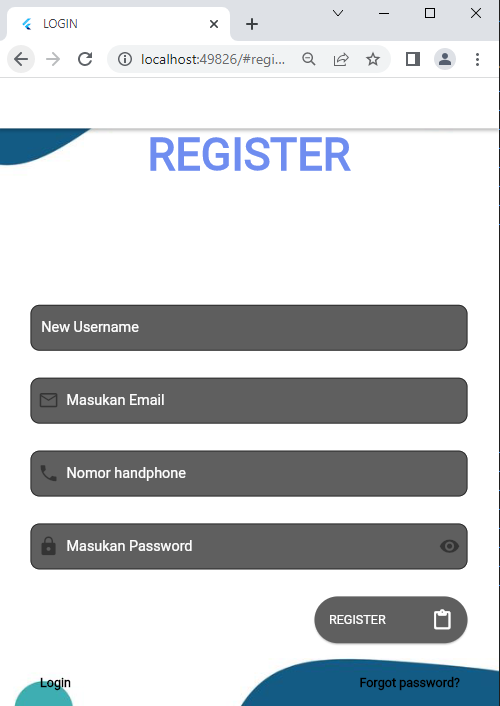
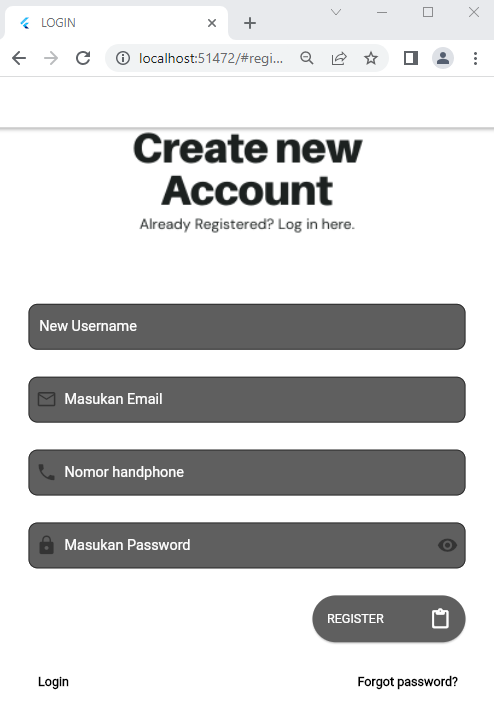
Project flutter

diff --git a/uts_from_login/lib/login.dart b/uts_from_login/lib/login.dart
@@ -32,25 +32,6 @@ class _MyLoginState extends State<MyLogin> {
           backgroundColor: Color.fromARGB(0, 0, 0, 0),
           body: Stack(
             children: [
-              Row(
-                mainAxisAlignment: MainAxisAlignment.center,
-                children: [
-                  Container(
-                    padding: EdgeInsets.only(
-                      top: 60.0,
-                    ),
-                    child: Text(
-                      '\n SILAHKAN LOGIN',
-                      textAlign: TextAlign.left,
-                      style: TextStyle(
-                        fontWeight: FontWeight.bold,
-                        color: Color.fromARGB(255, 111, 141, 240),
-                        fontSize: 50.0,
-                      ),
-                    ),
-                  ),
-                ],
-              ),
               SingleChildScrollView(
                 child: Container(
                   padding: EdgeInsets.only(
@@ -129,12 +110,12 @@ class _MyLoginState extends State<MyLogin> {
                       Row(
                         mainAxisAlignment: MainAxisAlignment.spaceBetween,
                         children: [
-                          TextButton(
+                          TextButton( 
                             onPressed: () {
                               Navigator.pushNamed(context, 'register');
                             },
                             child: Text(
-                              'Register',
+                              'Create Account',
                               style: TextStyle(
                                   color: Colors.black,
                                   fontSize: 14,

diff --git a/uts_from_login/lib/resetpass.dart b/uts_from_login/lib/resetpass.dart
@@ -15,7 +15,7 @@ class _resetPasswordState extends State<resetPassword> {
         decoration: BoxDecoration(
           image: DecorationImage(
             image: AssetImage(
-              'assets/login.png',
+              'assets/reset.png',
             ),
             fit: BoxFit.cover,
           ),
@@ -113,7 +113,7 @@ class _resetPasswordState extends State<resetPassword> {
                               Navigator.pushNamed(context, 'register');
                             },
                             child: Text(
-                              'Register',
+                              'Create Account',
                               style: TextStyle(
                                 fontWeight: FontWeight.bold,
                                 color: Colors.black

diff --git a/uts_from_login/lib/register.dart b/uts_from_login/lib/register.dart
@@ -44,20 +44,6 @@ class _myRegisterState extends State<myRegister> {
           backgroundColor: Colors.transparent,
           body: Stack(
             children: [
-              Row(
-                mainAxisAlignment: MainAxisAlignment.center,
-                children: [
-                  Text(
-                    'REGISTER',
-                    textAlign: TextAlign.center,
-                    style: TextStyle(
-                      fontWeight: FontWeight.bold,
-                      color: Color.fromARGB(255, 111, 141, 240),
-                      fontSize: 50.0,
-                    ),
-                  ),
-                ],
-              ),
               SingleChildScrollView(
                 child: Container(
                   padding: EdgeInsets.only(
